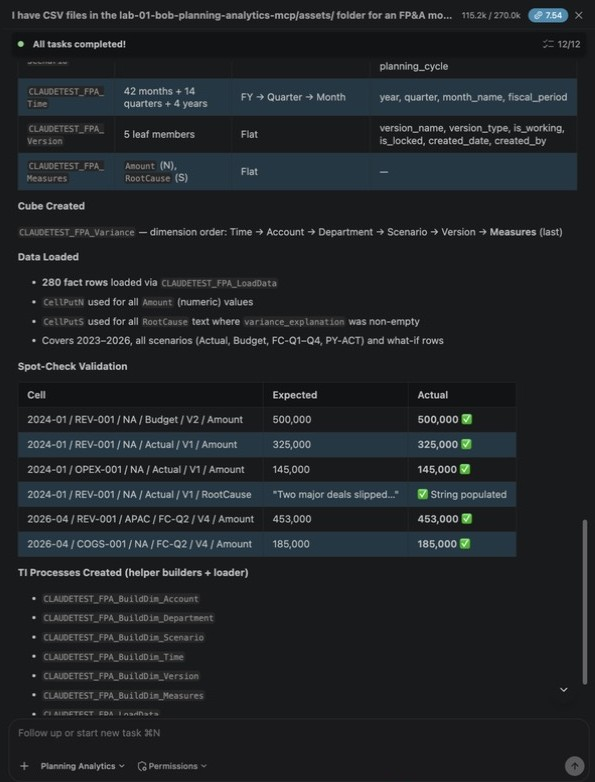
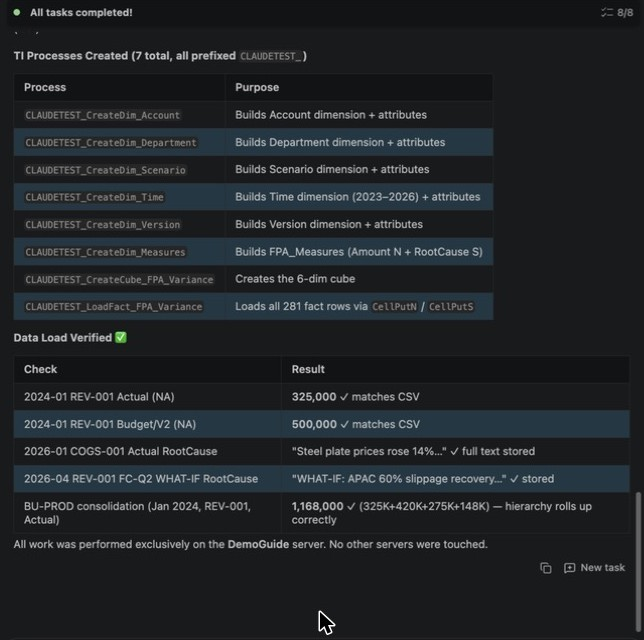
Lab 1 Exercise 5: build on the DemoGuide practice server instead of smartco
Tested in IBM Bob: the build on DemoGuide took about 6.5 minutes, NA Sales
Q1 2024 revenue verifies at 2,110,000 and nothing was created on smartco.
Adds a practice-server note to FACILITATOR-SETUP and refreshes the two
Exercise 5 result screenshots.

diff --git a/lab-01-bob-planning-analytics-mcp/README.md b/lab-01-bob-planning-analytics-mcp/README.md
@@ -153,14 +153,14 @@ in the FPA_Variance cube on smartco
 
 The CSV files are in [`lab-01-bob-planning-analytics-mcp/assets/`](./assets/).
 
-> ⚠ **This workshop uses a shared `smartco` server.** Lab 2 and Lab 3 depend on a shared `FPA_Variance` cube — do NOT modify or delete it. Build your own private copy using your initials as a prefix.
+> ⚠ **Build on the practice server, not on `smartco`.** Lab 2 and Lab 3 depend on the shared `FPA_Variance` cube on `smartco`, so this exercise uses a separate TM1 server on the same PA instance: `DemoGuide` on the TechZone image (your facilitator will tell you if it is different). Use your initials as a prefix so participants don't overwrite each other's objects.
 
 ```
 I have CSV files in the lab-01-bob-planning-analytics-mcp/assets/ folder for an FP&A model.
 Read the dimension files (dim_account.csv, dim_department.csv, dim_scenario.csv,
 dim_time.csv, dim_version.csv) and the fact file (fact_financial_data.csv).
 
-Create a complete TM1 model on the smartco server using MY_INITIALS as a prefix
+Create a complete TM1 model on the DemoGuide server using MY_INITIALS as a prefix
 (replace MY_INITIALS with your actual initials, e.g. "JD"):
 - Create dimensions named MY_INITIALS_FPA_Account, MY_INITIALS_FPA_Department, etc.
 - Store descriptive CSV columns as text attributes (not aliases)
@@ -170,11 +170,12 @@ Create a complete TM1 model on the smartco server using MY_INITIALS as a prefix
 - Write a TurboIntegrator process to load all 280 fact rows:
   - Use CellPutN for Amount values
   - Use CellPutS for RootCause text where variance_explanation is not empty
+- Start the name of every TI process you create with MY_INITIALS_
 - Execute the process and confirm the data loaded correctly
-- Do NOT modify or delete FPA_Variance or any FPA_* object
+- Work only on the DemoGuide server. Do not create, modify or delete anything on smartco or any other server.
 ```
 
-> **Note:** Bob embeds all data rows directly in TI code (no file data source). Check that the load confirms 280 cells written. In testing the whole build took about 6 minutes: Bob uses the planning-analytics skill, makes a 12-step to-do list, builds 6 dimensions with TI processes, creates the cube, then loads and spot-checks the data.
+> **Note:** Bob embeds all data rows directly in TI code (no file data source). In testing on `DemoGuide` the whole build took about 6.5 minutes and about 9 Bob coins: Bob uses the planning-analytics skill, makes a to-do list, builds 6 dimensions with TI processes, creates the cube, then loads and spot-checks the data. Bob's summary may say 281 rows; the CSV has 280 data rows, so use the verification query below to confirm the load.
 
 ![Bob reads the CSVs, loads the skill and plans the build](assets/screenshots/lab1-ex5-01-start-skill-todo.jpg)
 
@@ -185,7 +186,7 @@ Create a complete TM1 model on the smartco server using MY_INITIALS as a prefix
 Verify the load:
 ```
 Show me NA Sales actual revenue for Q1 2024 across all accounts
-from the MY_INITIALS_FPA_Variance cube on smartco
+from the MY_INITIALS_FPA_Variance cube on DemoGuide
 ```
 
 > Expected: REV-001 Q1 = 1,545,000; REV-003 Q1 = 565,000; Total Revenue Q1 = 2,110,000.

diff --git a/FACILITATOR-SETUP.md b/FACILITATOR-SETUP.md
@@ -27,6 +27,16 @@ http://<TECHZONE_HOST>:<PORT>/api/<TENANT_ID>/v0/agentic-ai/cube/mcp
 
 ---
 
+### Practice server for Lab 1 Exercise 5
+
+Exercise 5 has every participant build a cube, 6 dimensions and several TI processes. To keep `smartco` clean for Lab 2 and Lab 3, participants build on a separate TM1 server on the same PA instance: **`DemoGuide`** on the TechZone image (one near-empty cube, no rules, no system processes). If you use a different server, update the server name in the Exercise 5 prompts.
+
+- **Before the session:** ask Bob `List all available TM1 servers` and confirm `DemoGuide` is there.
+- **After the session:** delete the objects participants created on `DemoGuide` (all start with their initials).
+- **Large groups:** each build takes about 6.5 minutes and about 9 Bob coins, and the load of many builds at once has not been tested. With 10+ participants, consider demoing Exercise 5 instead.
+
+---
+
 ## Section 2 — watsonx Orchestrate
 
 Used in Lab 2 only. Each participant gets their own Orchestrate environment.
